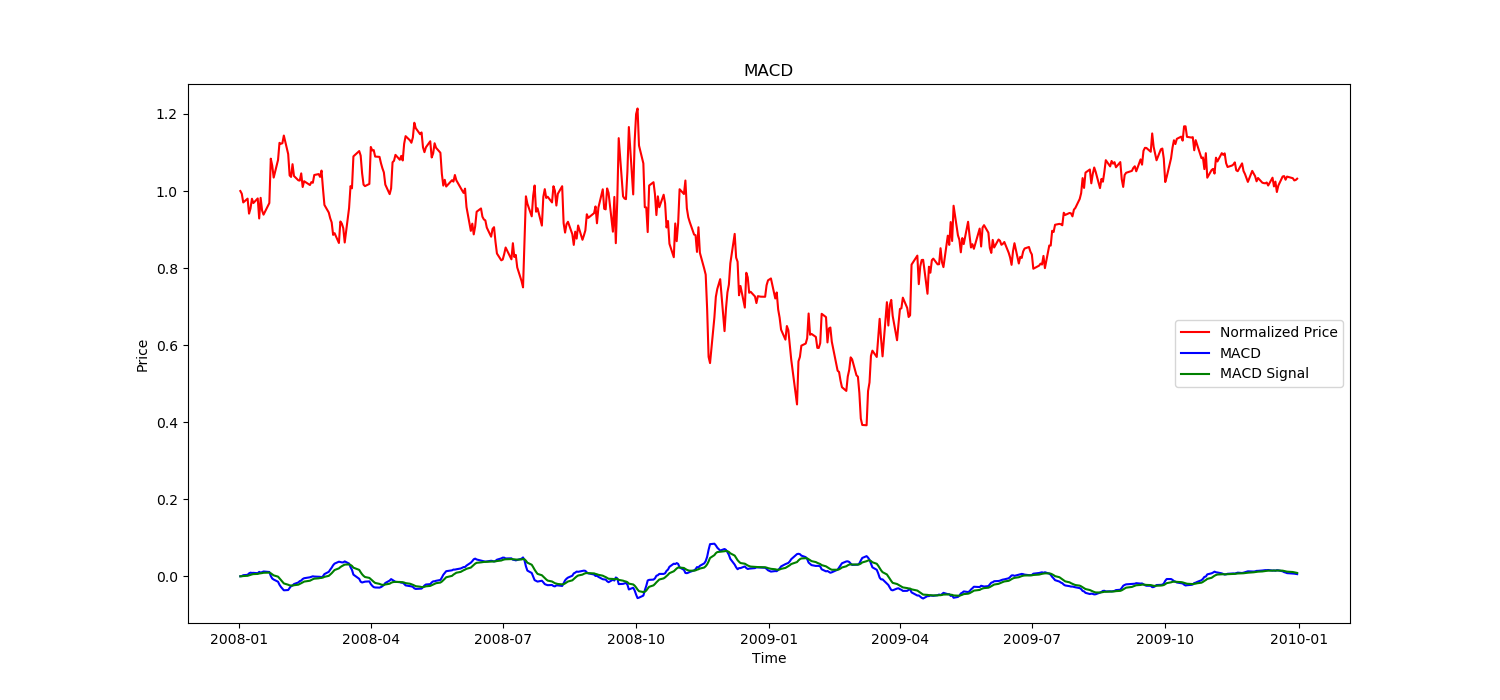
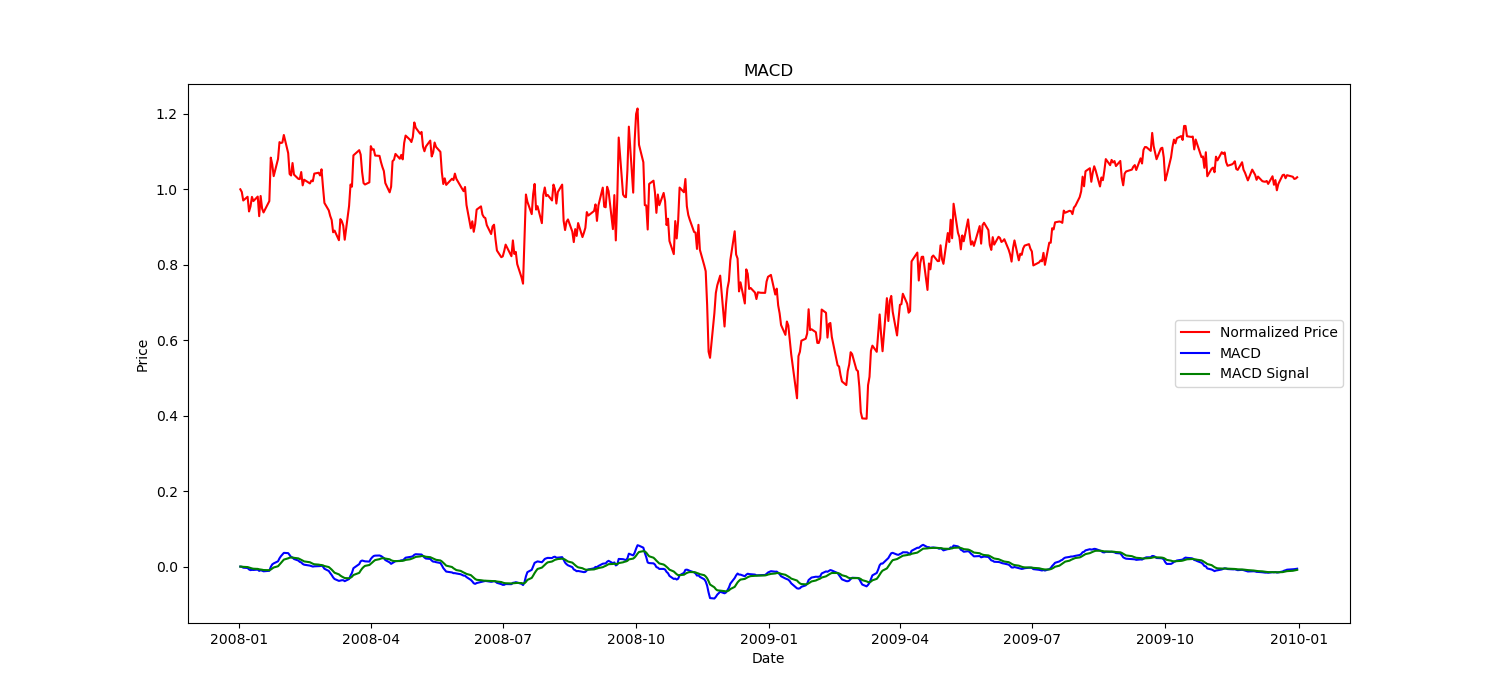
indicator

diff --git a/indicator_evaluation/indicators.py b/indicator_evaluation/indicators.py
@@ -43,9 +43,16 @@ def getMomentum(prices, lookback):
 def getMACD(prices):
     ema12 = prices.ewm(span=12, adjust=False).mean()
     ema26 = prices.ewm(span=26, adjust=False).mean()
-    macd = ema26 - ema12
+    macd = ema12 - ema26
     signal = macd.ewm(span=9, adjust=False).mean()
     return macd, signal
+
+def getPPO(prices):
+    ema12 = prices.ewm(span=12, adjust=False).mean()
+    ema26 = prices.ewm(span=26, adjust=False).mean()
+    ppo = ema12 - ema26 / ema26
+    signal = ppo.ewm(span=9, adjust=False).mean()
+    return ppo, signal
 
 def plotGraph(symbol,sd, ed):
     prices_df = get_data([symbol], pd.date_range(sd, ed))
@@ -101,7 +108,7 @@ def plotGraph(symbol,sd, ed):
 
     momentum = getMomentum(normed_price, lookback)
     fig, ax = plt.subplots(figsize=(15, 7))
-    ax.set(xlabel='Time', ylabel="Price", title="Momentum")
+    ax.set(xlabel='Date', ylabel="Price", title="Momentum")
     ax.plot(normed_price, "red", label='Normalized Price')
     ax.plot(momentum, "blue", label="Momentum")
     ax.legend()
@@ -110,10 +117,20 @@ def plotGraph(symbol,sd, ed):
 
     macd, signal = getMACD(normed_price)
     fig, ax = plt.subplots(figsize=(15, 7))
-    ax.set(xlabel='Time', ylabel="Price", title="MACD")
+    ax.set(xlabel='Date', ylabel="Price", title="MACD")
     ax.plot(normed_price, "red", label='Normalized Price')
     ax.plot(macd, "blue", label="MACD")
     ax.plot(signal, "green", label="MACD Signal")
     ax.legend()
     fig.savefig('Indicator4_MACD.png')
+    plt.close()
+
+    ppo, signal = getMACD(normed_price)
+    fig, ax = plt.subplots(figsize=(15, 7))
+    ax.set(xlabel='Date', ylabel="Price", title="Percentage Price Indicator")
+    ax.plot(normed_price, "red", label='Normalized Price')
+    ax.plot(ppo, "blue", label="PPO")
+    ax.plot(signal, "green", label="PPO Signal")
+    ax.legend()
+    fig.savefig('Indicator5_PPO.png')
     plt.close()
